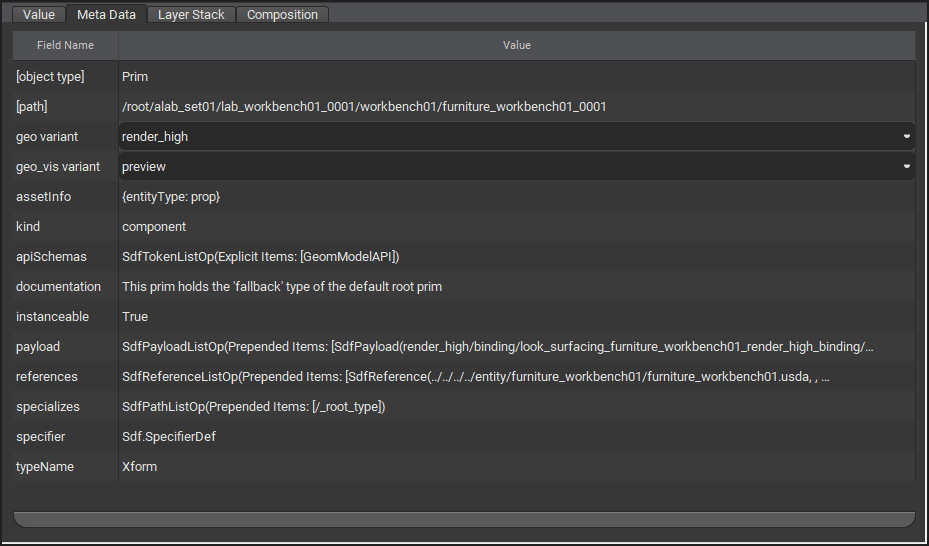
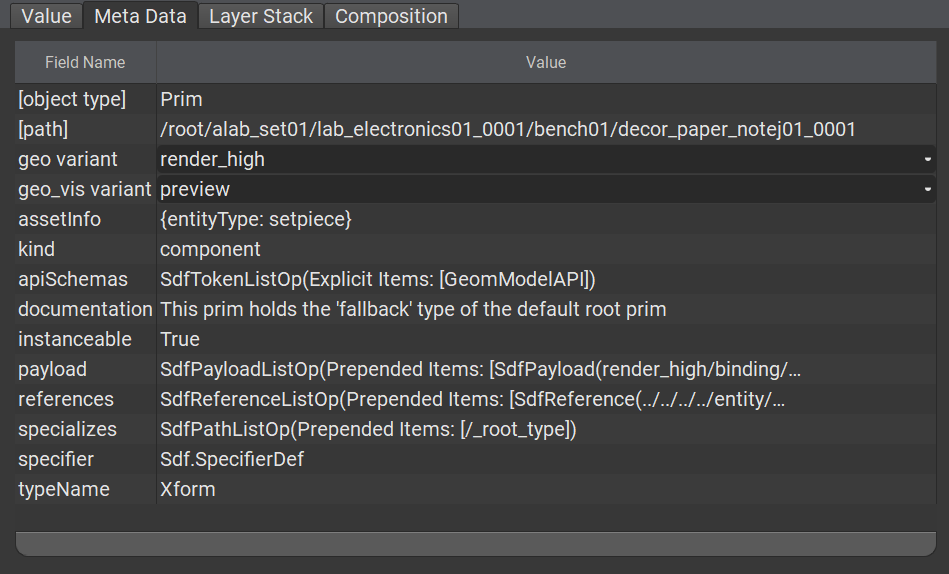
10 expand terminology for metadata (#13)
* First draft metadata topic expansion

* Update images and flesh out metadata examples

* Update src/terminology/metadata.md

upAxis suggestion

* Update src/terminology/metadata.md

Kind metadatum suggestion

* Update src/terminology/metadata.md

Animation metadata suggestion

* Update src/terminology/metadata.md

Instancing suggestion

* Update src/terminology/metadata.md

Variantset suggestion

* Removed explicit mention of the Kind chapter

* Update src/terminology/metadata.md

mpu suggestion

* Update src/terminology/metadata.md

sublayer suggestion

* Move property metadata example under title for consistency

* Fix versions of mdbook, admonish and catppuccin

---------

Changed region(s): [[0.0, 0.0, 1.0, 0.8718], [0.0, 0.9029, 0.9989, 0.9963], [0.9677, 0.2491, 0.9989, 0.3425]]

diff --git a/theme/mdbook-admonish.css b/theme/mdbook-admonish.css
@@ -77,6 +77,7 @@ a.admonition-anchor-link::before {
 
 :is(.admonition-title, summary) {
   position: relative;
+  min-height: 4rem;
   margin-block: 0;
   margin-inline: -1.6rem -1.2rem;
   padding-block: 0.8rem;

diff --git a/src/terminology/metadata.md b/src/terminology/metadata.md
@@ -1,10 +1,69 @@
 # Metadata
 
-Prims, their properties and the layers they are part of can have metadata applied to them. This is additional _static_ (it can not change over time) data that USD or a user can read, use or define.
+Prims, their properties and the layers they are part of can have metadata applied to them. This is additional _static_ (as in, it can not change over time) data that USD or a user can read, use or define.
 
-```admonish example title="Metadata Example"
-![Layer](../images/terminology/metadata.png)
+Metadata can be used to describe behavior, incur meaning, represent documentation, etc. USD comes bundled with an extensive suite of metadata out of the box.
+
+```admonish tip title=""
+Developers can define new metadata via USD Plugins!
 ```
+
+## Simple Metadata Examples
+
+### Layer Metadata
+
+```admonish example title=""
+![StageMetadata](../images/terminology/metadata_stage.png)
+```
+
+In the image above, the [PseudoRoot](https://graphics.pixar.com/usd/release/glossary.html#usdglossary-pseudoroot) at path `/` has been selected and the metadata panel in `usdview` has been highlighted. This root represents the `entry.usda` layer from [Animal Logic ALab](https://animallogic.com/alab/). `entry.usda` defines metadata that can be inspected and presents the following information to the user about itself:
+- The linear units used are `0.01` meters (i.e. centimeters) → `metersPerUnit = 0.01`
+- The scene's up axis is `Y` → `upAxis = Y`
+- Two layers contribute to the scene (more about this later in [Local/Sublayer](./local_sublayer.md)) → `subLayers = [...]`
+- Animation is present between time code `1004.0` and `1057.0` with `24.0` frames and time codes per second.
+  - `startTimeCode = 1004.0`
+  - `endTimeCode = 1057.0`
+  - `framesPerSecond = 24.0`
+  - `timeCodesPerSecond = 24.0`
+
+```admonish warning title=""
+Do note that while a lot of metadata is just informational data, a large part of the core metadata suite also has side effects that contribute to how USD works internally.
+
+For example, `metersPerUnit` is purely informative, whereas `subLayers` has profound effects when edited!
+```
+
+
+```admonish note title=""
+Other USD hosts like Autodesk Maya or Sidefx Houdini may choose to interpret and act on metadata where USD itself does not
+```
+
+### Prim Metadata
+
+```admonish example title=""
+![StageMetadata](../images/terminology/metadata.png)
+```
+
+Metadata on Prims can infer a lot of information about the prim itself, how it is used in the scene (aka [Composition](./composition.md)), what kind of properties it has, etc.
+
+From the above we know that the prim at `/root/alab_set01/lab_electronics01_0001/bench01/decor_paper_notej01_0001` 
+
+- Is an `Xform` → `typeName = Xform`
+- It is instanced (more about [Instancing](./instancing.md) later) → `instanceable = true`
+- Has two VariantSets (more about [VariantSets](./variantset.md) later) → `geo` and `geo_vis`
+- Is categorized as a `component` (more about the [Kind](./kind.md) metadatum later) → `kind = component`
+- Etc.
+
+### Property Metadata
+
+```admonish example title=""
+![StageMetadata](../images/terminology/metadata_prop.png)
+```
+
+Lastly, there is property metadata. This data is meant to give fine grained information about the property itself. For example
+
+- What type it is → `typename = double3`
+- Whether it can change over time → `variability = Sdf.VariabilityVarying`
+- Is it a custom "out-of-schema" (see [Schemas](./schemas.md) later) property → `custom = false`
 
 ---
 
